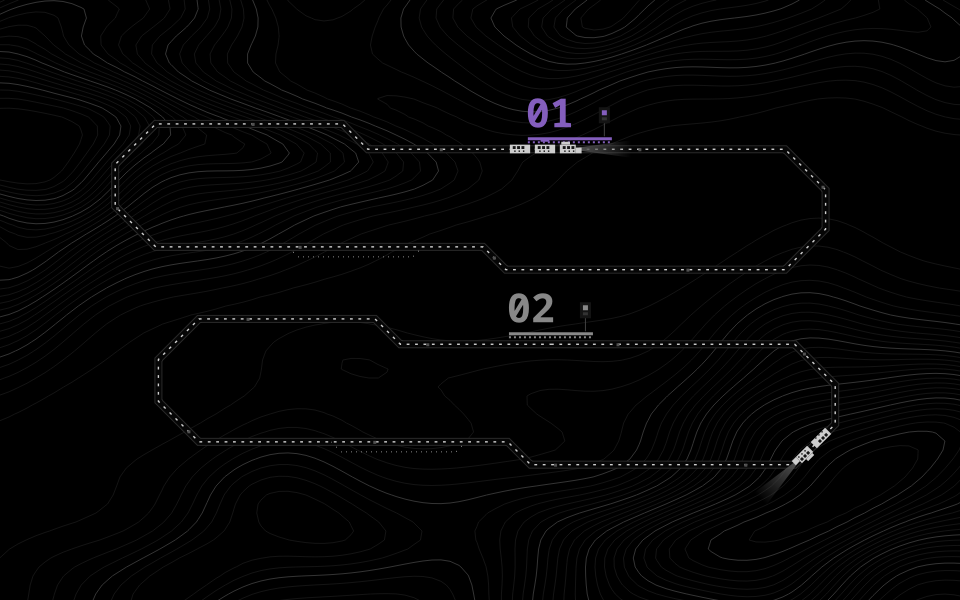
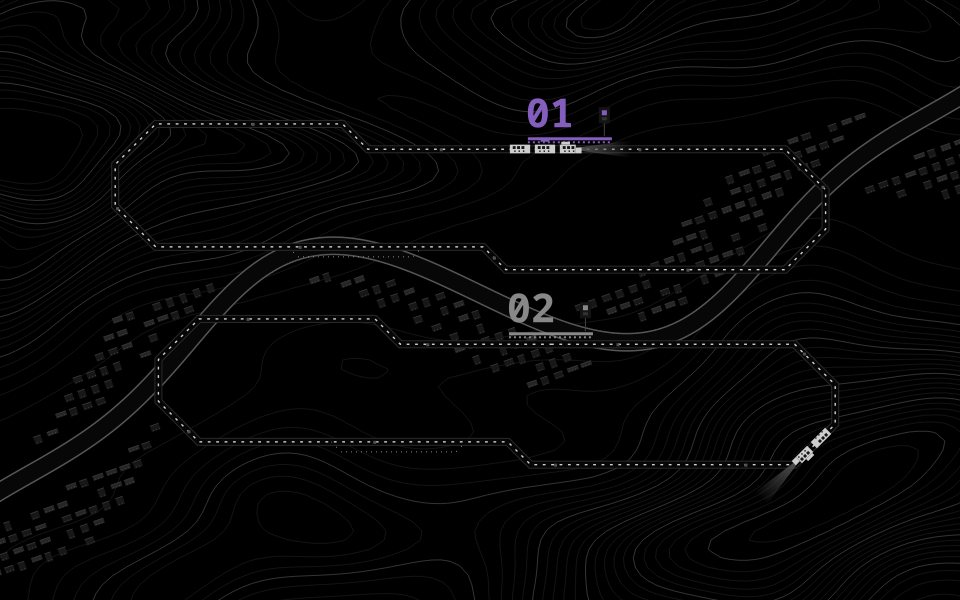
Light the Night Rail riverfront under the cursor

diff --git a/system/apps/shell/modules/widgets/dashboard/wallpapers/RailTerrain.js b/system/apps/shell/modules/widgets/dashboard/wallpapers/RailTerrain.js
@@ -35,3 +35,64 @@ function draw(c,w,h) {
         c.stroke();
     }
 }
+
+// A river with two built-up banks, drawn in local survey coordinates.
+function riverY(x, h) {
+    return h*(.14*Math.sin(x/h*4.3)+.05*Math.sin(x/h*8.1));
+}
+
+function drawDistrict(c,w,h) {
+    const lights=[];
+    if (w<=0 || h<=0) return lights;
+    const angle=-.34, cos=Math.cos(angle), sin=Math.sin(angle);
+    const extent=Math.hypot(w,h)*.55;
+    const scale=Math.min(w,h)/760, quay=10*scale;
+    c.save();
+    c.translate(w*.50,h*.49);
+    c.rotate(angle);
+    c.beginPath();
+    for (let x=-extent;x<=extent;x+=4) {
+        const y=riverY(x,h);
+        if (x===-extent) c.moveTo(x,y); else c.lineTo(x,y);
+    }
+    for (const [width,color] of [[quay*2+3,"#565656"],[quay*2,"#070707"]]) {
+        c.lineWidth=width; c.strokeStyle=color; c.stroke();
+    }
+    const pitch=18*scale;
+    for (let col=-Math.ceil(extent/pitch);col<=extent/pitch;col++) {
+        const x=col*pitch, bank=riverY(x,h);
+        for (let row=-7;row<=7;row++) {
+            const y=row*pitch;
+            const seed=Math.abs(Math.sin(col*127.1+row*311.7)*43758.5453)%1;
+            const along=Math.sin(x/h*7+1.3*Math.sign(y-bank));
+            const distance=Math.abs(y-bank);
+            if (distance<quay+pitch*1.35 || distance>pitch*(3.8+3*along) || seed<.14) continue;
+            const bw=pitch*(.38+seed*.43), bh=pitch*(.30+(1-seed)*.43);
+            c.fillStyle=seed>.70 ? "#252525" : "#171717";
+            c.fillRect(x,y,bw,bh);
+            c.fillStyle="#363636"; c.fillRect(x,y,bw,scale);
+            c.fillStyle="#555555";
+            for (let k=2*scale;k<bw-scale;k+=4*scale)
+                c.fillRect(x+k,y+bh-2*scale,scale,scale);
+            const lx=x+bw/2, ly=y+bh/2;
+            lights.push({x:w*.50+lx*cos-ly*sin,y:h*.49+lx*sin+ly*cos});
+        }
+    }
+    c.restore();
+    return lights;
+}
+
+function illuminate(c,lights,x,y,radius,strength,ring) {
+    c.save();
+    c.fillStyle="#e0e0e0";
+    for (const light of lights) {
+        const distance=Math.hypot(light.x-x,light.y-y);
+        const weight=ring ? 1-Math.abs(distance-radius)/30 : 1-distance/radius;
+        if (weight<=0) continue;
+        c.globalAlpha=strength*weight;
+        c.fillRect(light.x-2,light.y-1,4,2);
+        c.globalAlpha*=.18;
+        c.fillRect(light.x-5,light.y-3,10,6);
+    }
+    c.restore();
+}

diff --git a/system/apps/shell/modules/widgets/dashboard/wallpapers/NightRail.qml b/system/apps/shell/modules/widgets/dashboard/wallpapers/NightRail.qml
@@ -16,6 +16,8 @@ Rectangle {
     property var hits: []
     property var hover: null
     property var sparks: ({})
+    property var districtLights: []
+    property var echo: null
     property double previous: 0
 
     function reconcile() {
@@ -64,6 +66,7 @@ Rectangle {
             const c = getContext("2d");
             c.reset();
             Terrain.draw(c,width,height);
+            rail.districtLights = Terrain.drawDistrict(c,width,height);
         }
     }
     Canvas {
@@ -146,6 +149,27 @@ Rectangle {
             c.reset();
             const now = Date.now(), dt = Math.min(.1,(now-rail.previous)/1000);
             rail.previous = now;
+            if (pointer.containsMouse && !rail.hit(pointer.mouseX,pointer.mouseY)) {
+                const x=pointer.mouseX, y=pointer.mouseY;
+                const glow=c.createRadialGradient(x,y,0,x,y,85);
+                glow.addColorStop(0,"rgba(182,192,202,0.09)");
+                glow.addColorStop(1,"transparent");
+                c.fillStyle=glow;
+                c.fillRect(x-85,y-85,170,170);
+                Terrain.illuminate(c,rail.districtLights,x,y,115,.9,false);
+            }
+            if (rail.echo) {
+                const t=Math.min(1,(now-rail.echo.start)/950);
+                const radius=8+Math.min(width,height)*.34*t;
+                c.save();
+                c.globalAlpha=.46*(1-t);
+                c.strokeStyle="#ddd"; c.lineWidth=1;
+                c.setLineDash([3,5]); c.beginPath();
+                c.arc(rail.echo.x,rail.echo.y,radius,0,Math.PI*2);
+                c.stroke(); c.restore();
+                Terrain.illuminate(c,rail.districtLights,rail.echo.x,rail.echo.y,radius,1-t,true);
+                if (t===1) rail.echo=null;
+            }
             const targets = [];
             for (const r of rail.routes) {
                 const p = r.path;
@@ -214,6 +238,7 @@ Rectangle {
         onClicked: mouse => {
             const h=rail.hit(mouse.x,mouse.y);
             if (h) rail.workspaceClicked(h.r.id);
+            else rail.echo={x:mouse.x,y:mouse.y,start:Date.now()};
         }
     }
     Text {

diff --git a/desktop/tests/night-rail/tst_NightRail.qml b/desktop/tests/night-rail/tst_NightRail.qml
@@ -13,6 +13,23 @@ Item {
     SignalSpy { id: spy; target: scene; signalName: "workspaceClicked" }
     TestCase {
         name: "NightRail"; when: windowShown
+        function test_district() {
+            tryVerify(()=>scene.districtLights.length>0)
+            const lamp=scene.districtLights.find(p=>p.x>30 && p.x<scene.width-30 &&
+                p.y>30 && p.y<scene.height-30 && !scene.hit(p.x,p.y))
+            verify(!!lamp)
+            mouseMove(scene,5,5)
+            wait(100)
+            const before=grabImage(scene)
+            mouseMove(scene,lamp.x,lamp.y)
+            wait(100)
+            verify(grabImage(scene).red(Math.floor(lamp.x),Math.floor(lamp.y))>
+                before.red(Math.floor(lamp.x),Math.floor(lamp.y)))
+            mouseClick(scene,lamp.x,lamp.y)
+            verify(!!scene.echo)
+            compare(spy.count,0)
+            tryVerify(()=>!scene.echo,1600)
+        }
         function test_transitions() {
             tryCompare(scene.routes,"length",2)
             wait(550)
